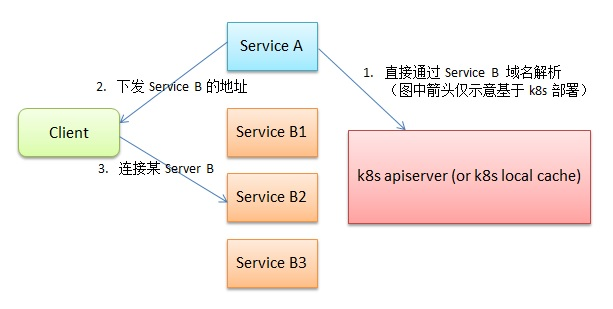
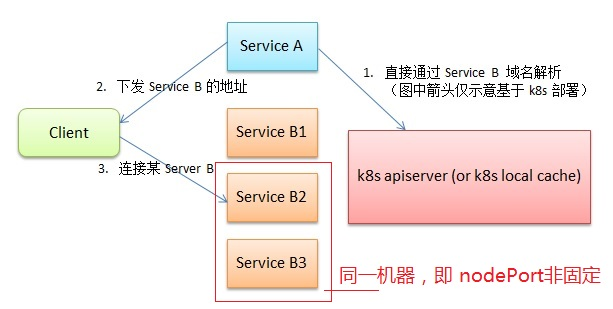
example2

Changed region(s): [[0.3409, 0.8447, 0.9918, 0.9903], [0.3409, 0.5243, 0.5579, 0.5534]]

diff --git a/example2/service_b.go b/example2/service_b.go
@@ -6,11 +6,14 @@ import (
 )
 
 func main() {
-	addr, _ := net.ResolveTCPAddr("tcp", "0.0.0.0:3456")
+	port := getVaildPort()
+	addr, _ := net.ResolveTCPAddr("tcp", fmt.Sprintf("0.0.0.0:%d", port))
 	lis, err := net.ListenTCP("tcp", addr)
 	if err != nil {
 		panic(err)
 	}
+
+	fmt.Println("start listen:", port)
 
 	for {
 		conn, err := lis.AcceptTCP()
@@ -33,4 +36,26 @@ func main() {
 			}
 		}()
 	}
+}
+
+func getVaildPort() int {
+	port := 10000
+	for {
+		port = port + 1
+		address := fmt.Sprintf(":%d", port)
+		tcpAddr, err := net.ResolveTCPAddr("tcp4", address)
+		if err != nil {
+			continue
+		}
+		listener, err := net.ListenTCP("tcp", tcpAddr)
+		if err != nil {
+			if listener != nil {
+				listener.Close()
+			}
+			continue
+		}
+		listener.Close()
+		return port
+	}
+	return 0
 }
